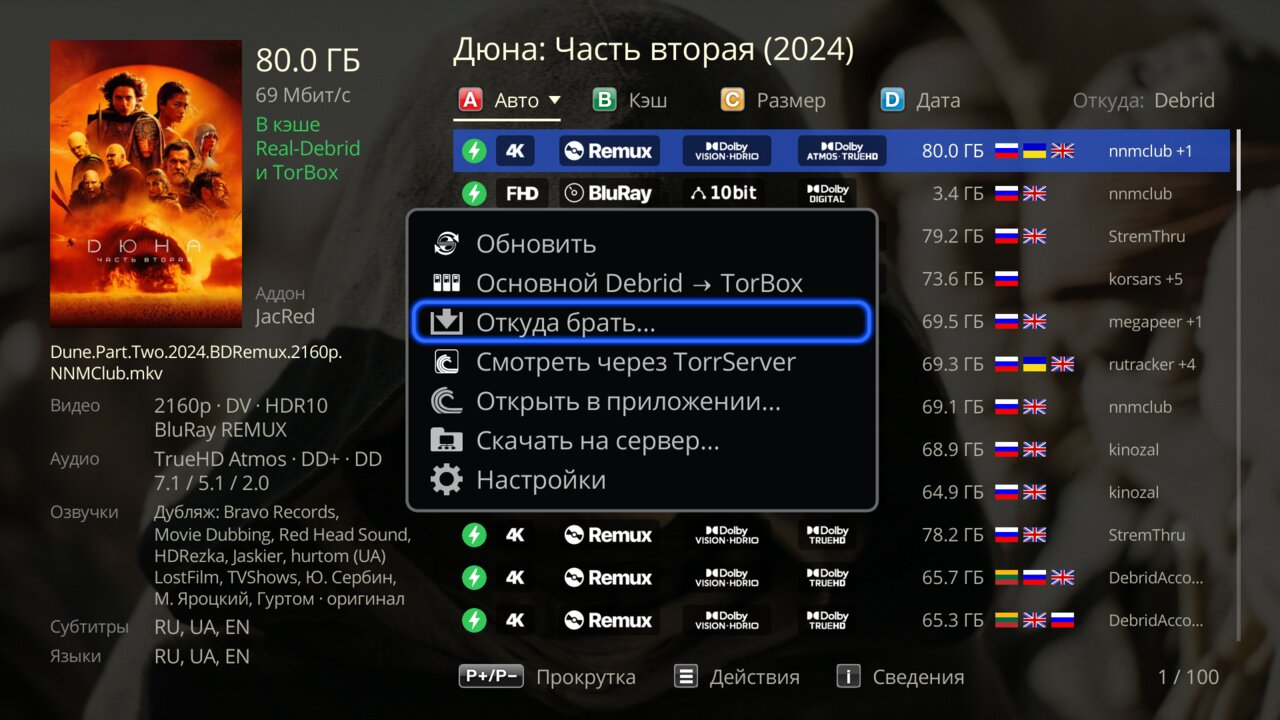
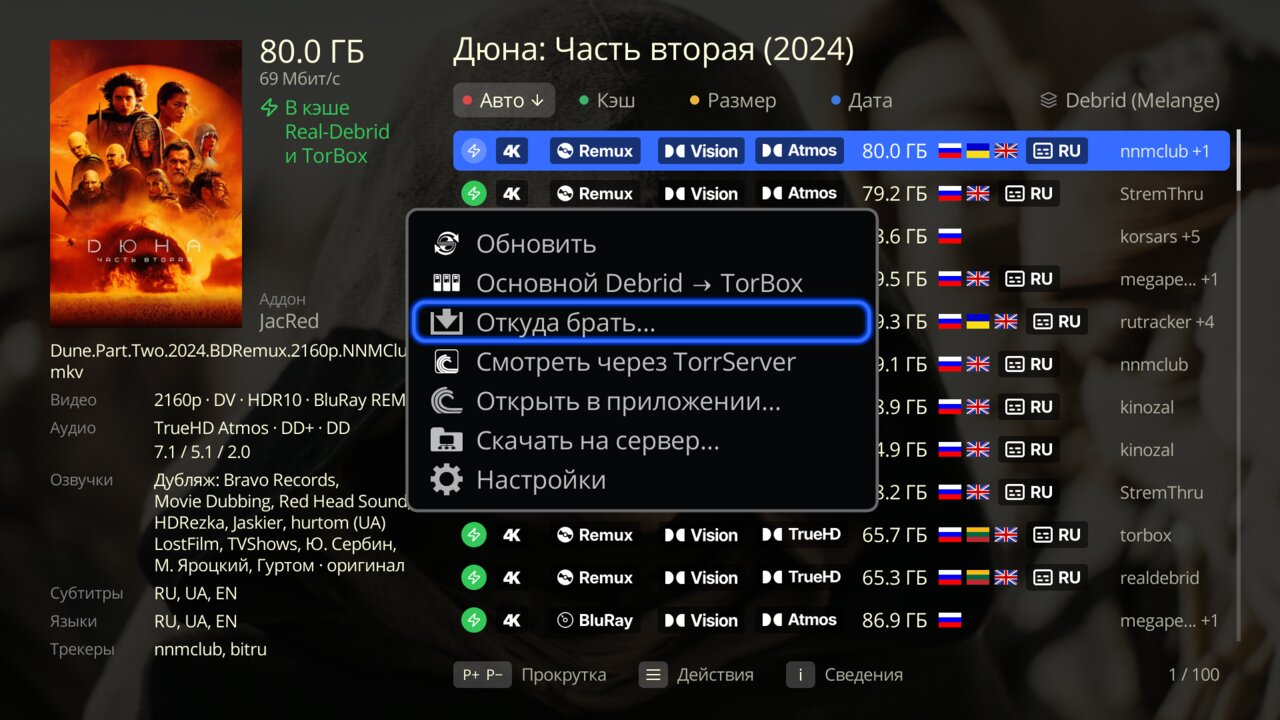
Гайд: кадры списка раздач под UI Kit, подписи про «?» и субтитры

diff --git a/docs/watch.md b/docs/watch.md
@@ -14,7 +14,7 @@
 
    <img src="../screenshots/own-card-film.jpg" alt="Карточка Melange «Тёмный рыцарь», фокус на «Смотреть», рядом «Трейлер» и «В избранное»" width="100%">
 
-4. Выберите раздачу и нажмите **ENTER**. Раздачи — это варианты файла фильма: качество, озвучка, размер. Чем больше сидов (раздающих, число в первой колонке), тем быстрее начнётся фильм.
+4. Выберите раздачу и нажмите **ENTER**. Раздачи — это варианты файла фильма: качество, озвучка, размер. Чем больше сидов (раздающих, число в первой колонке), тем быстрее начнётся фильм. Флаги — языки озвучки; «?» вместо флага значит, что язык не подтверждён (в карточке слева он с вопросом: «RU?»). Метка «RU» со значком субтитров значит, что в раздаче есть русские субтитры.
 
    <img src="../screenshots/film-list-p2p.jpg" alt="Список раздач: в первой колонке число сидов" width="100%">
 
@@ -30,9 +30,9 @@
 
    <img src="../screenshots/own-card-series.jpg" alt="Карточка Melange «Во все тяжкие»: вкладки сезонов и ряд серий" width="100%">
 
-2. Раздачу выбирайте так же, как у фильма. Дальше серии пойдут подряд, а соседнюю можно открыть прямо из списка раздач (кнопки в подсказке внизу). На кадре список Debrid с молниями; на торрентах вместо молний будут сиды, как у фильма.
+2. Раздачу выбирайте так же, как у фильма. Дальше серии пойдут подряд, а соседнюю можно открыть прямо из списка раздач (кнопки в подсказке внизу). На кадре список торрентов с сидами; у Debrid вместо сидов будут молнии.
 
-   <img src="../screenshots/series-list.jpg" alt="Список раздач серии, внизу подсказка «Серии»" width="100%">
+   <img src="../screenshots/series-list.jpg" alt="Список раздач серии «Во все тяжкие»: в первой колонке сиды, внизу подсказка «Серии»" width="100%">
 
 ## Продолжить
 

diff --git a/docs/watch.en.md b/docs/watch.en.md
@@ -14,7 +14,7 @@ Find and play a movie, then continue from the same spot. [← Contents](README.e
 
    <img src="../screenshots/own-card-film.jpg" alt="Melange card for The Dark Knight, focus on Watch, Trailer and Favorites next to it" width="100%">
 
-4. Choose a release and press **ENTER**. Releases are versions of the movie file: quality, voice-over, size. The more seeders (people sharing it, the number in the first column), the sooner the movie starts.
+4. Choose a release and press **ENTER**. Releases are versions of the movie file: quality, voice-over, size. The more seeders (people sharing it, the number in the first column), the sooner the movie starts. The flags show dub languages. A "?" instead of a flag means the language is not confirmed (the card on the left shows it with a question mark: "RU?"). An "RU" label with a subtitles icon means the release has Russian subtitles.
 
    <img src="../screenshots/film-list-p2p.jpg" alt="Release list: number of seeders in the first column" width="100%">
 
@@ -30,9 +30,9 @@ Find and play a movie, then continue from the same spot. [← Contents](README.e
 
    <img src="../screenshots/own-card-series.jpg" alt="Melange card for Breaking Bad: season tabs and a row of episodes" width="100%">
 
-2. Choose a release the same way as for a movie. Episodes then play one after another, and you can open the next or previous one right from the release list (buttons in the hint at the bottom). The frame shows a Debrid list with lightning bolts; with torrents you see seeders instead, as for a movie.
+2. Choose a release the same way as for a movie. Episodes then play one after another, and you can open the next or previous one right from the release list (buttons in the hint at the bottom). The frame shows a torrent list with seeders; with Debrid you see lightning bolts instead.
 
-   <img src="../screenshots/series-list.jpg" alt="Release list of an episode, Episodes hint at the bottom" width="100%">
+   <img src="../screenshots/series-list.jpg" alt="Release list of a Breaking Bad episode: seeders in the first column, Episodes hint at the bottom" width="100%">
 
 ## Continue
 

diff --git a/docs/debrid.md b/docs/debrid.md
@@ -38,7 +38,7 @@
 
 7. Откройте фильм на Дюне. Молния у раздачи значит, что она в кэше (уже скачана сервисом Debrid) и включится сразу.
 
-   <img src="../screenshots/film-list.jpg" alt="Список раздач «Дюна: Часть вторая»: у раздач значок молнии, слева «В кэше Real-Debrid»" width="100%">
+   <img src="../screenshots/film-list.jpg" alt="Список раздач «Дюна: Часть вторая»: у раздач значок молнии, слева «В кэше Real-Debrid и TorBox»" width="100%">
 
 8. Раздачу без молнии можно включить через TorrServer: встаньте на неё, нажмите **POP UP** и выберите «Смотреть через TorrServer». Для этого нужен TorrServe на Дюне: как поставить — [Быстрый старт](start.md#через-dune-backup), шаг 5; как настроить — [Первая настройка](start.md#первая-настройка), шаг 1.
 

diff --git a/docs/debrid.en.md b/docs/debrid.en.md
@@ -38,7 +38,7 @@ No subscription yet? Get one through the author's link to support Melange: [Real
 
 7. Open a movie on the Dune. A lightning bolt on a release means it is cached (already downloaded by the Debrid service) and starts right away.
 
-   <img src="../screenshots/film-list.jpg" alt="Release list for Dune: Part Two: releases with a lightning icon, Cached in Real-Debrid on the left" width="100%">
+   <img src="../screenshots/film-list.jpg" alt="Release list for Dune: Part Two: releases with a lightning icon, Cached in Real-Debrid and TorBox on the left" width="100%">
 
 8. A release without a lightning bolt can play via TorrServer: move to it, press **POP UP** and choose "Watch via TorrServer". This needs TorrServe on the Dune. To install it, see [Quick start](start.en.md#via-dune-backup), step 5; to set it up, [First setup](start.en.md#first-setup), step 1.
 

diff --git a/docs/profiles.md b/docs/profiles.md
@@ -22,7 +22,7 @@
 
 5. Выберите источник. Список раздач обновится из него. Выбор действует только на этом экране и не запоминается.
 
-   <img src="../screenshots/profiles-pick.jpg" alt="Окно со списком источников, фокус на «Debrid · сейчас»" width="100%">
+   <img src="../screenshots/profiles-pick.jpg" alt="Окно со списком источников, фокус на «Debrid (Melange) · сейчас»" width="100%">
 
    Начатый фильм продолжится из того источника, где вы его смотрели: «Продолжить», следующая серия, карточка фильма.
 

diff --git a/docs/profiles.en.md b/docs/profiles.en.md
@@ -22,7 +22,7 @@ Add several sources (Debrid, torrents, your own config) and open a movie on the 
 
 5. Choose a source. The release list reloads from it. The choice applies to this screen only and is not remembered.
 
-   <img src="../screenshots/profiles-pick.jpg" alt="Window with a list of sources, focus on Debrid · now" width="100%">
+   <img src="../screenshots/profiles-pick.jpg" alt="Window with a list of sources, focus on Debrid (Melange) · now" width="100%">
 
    A movie you have started continues from the source you watched it from: "Continue Watching", the next episode, the movie card.
 
